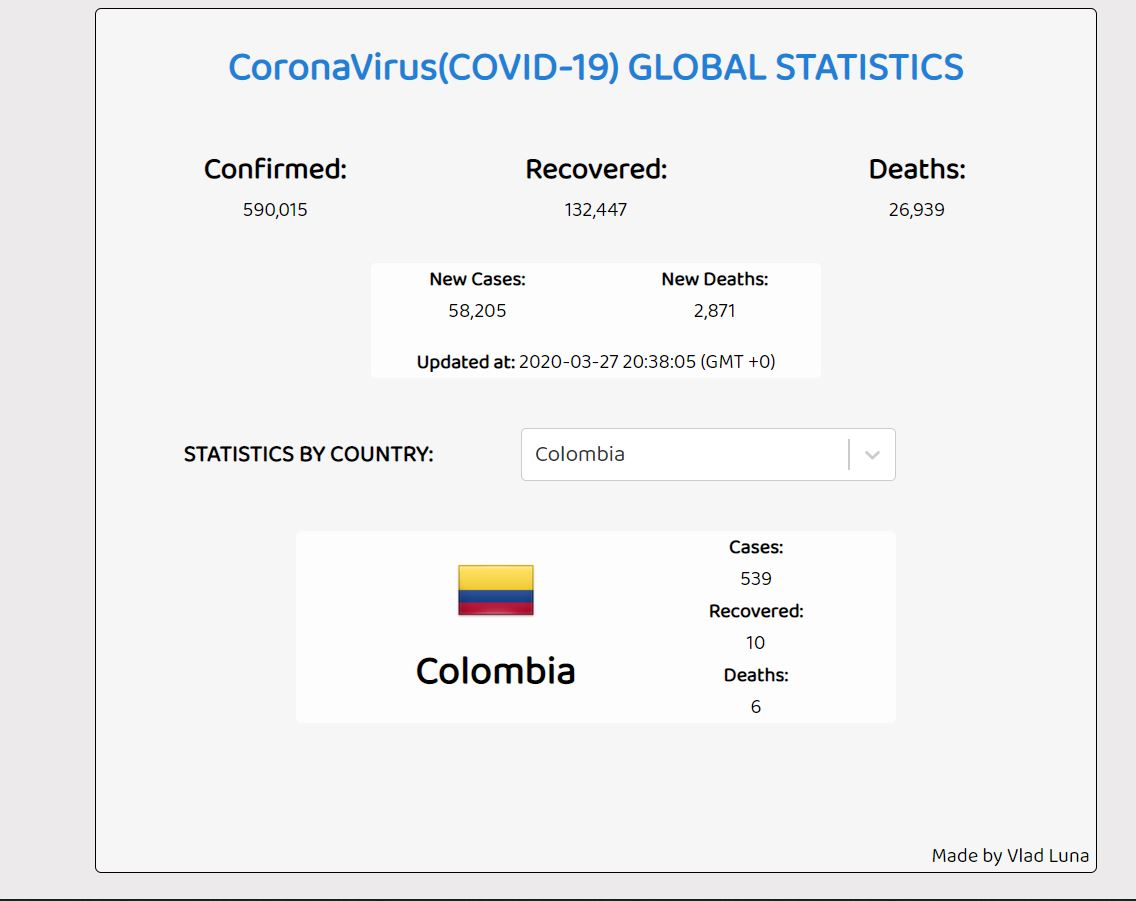
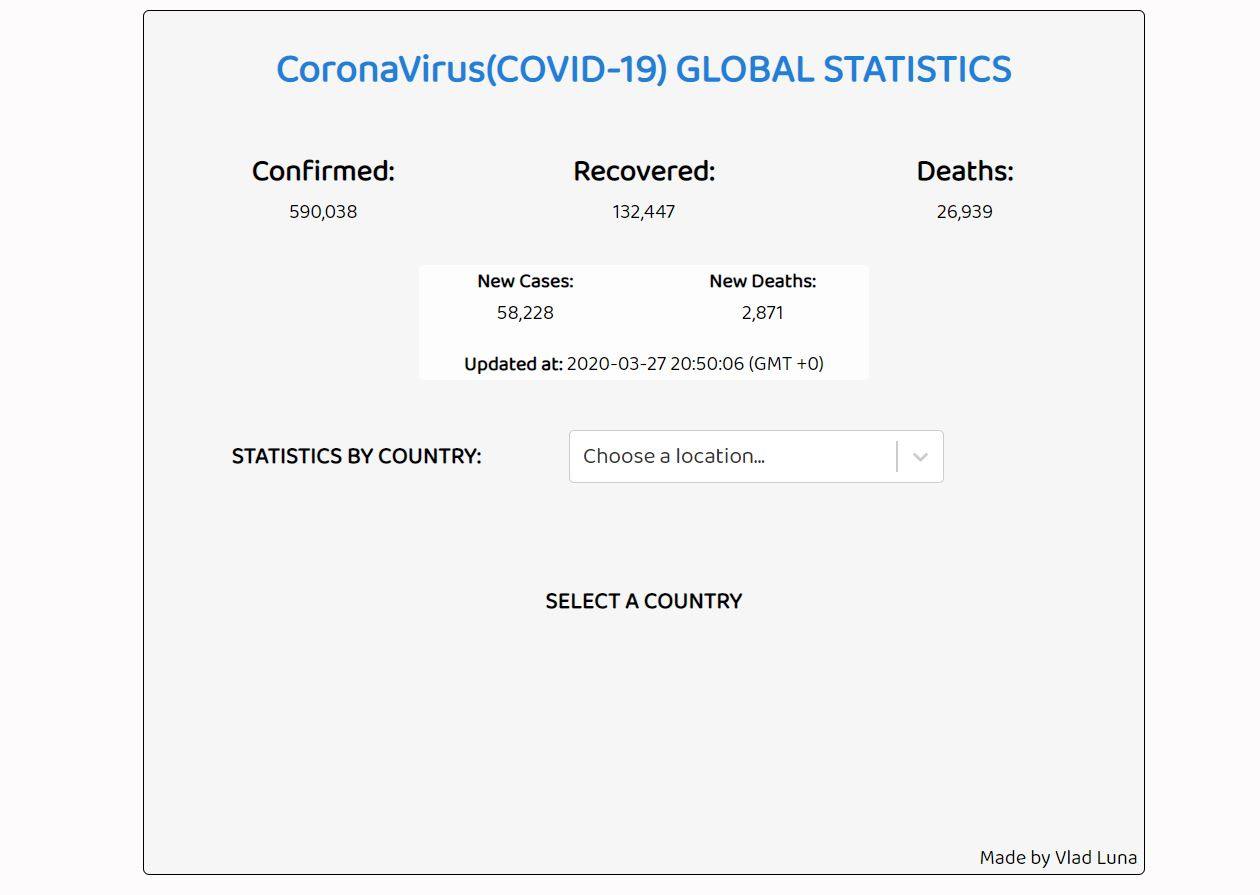
updated description and body bg

diff --git a/public/index.html b/public/index.html
@@ -26,7 +26,7 @@
     -->
     <title>COVID-19 Statistics</title>
   </head>
-  <body style="background: #eceaea">
+  <body style="background: #fdfcfc">
     <noscript>You need to enable JavaScript to run this app.</noscript>
     <div id="root"></div>
     <!--
